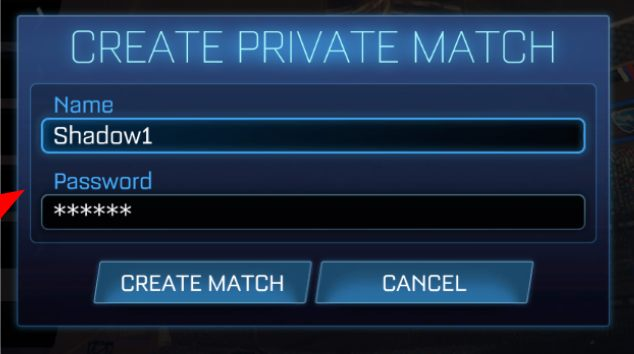
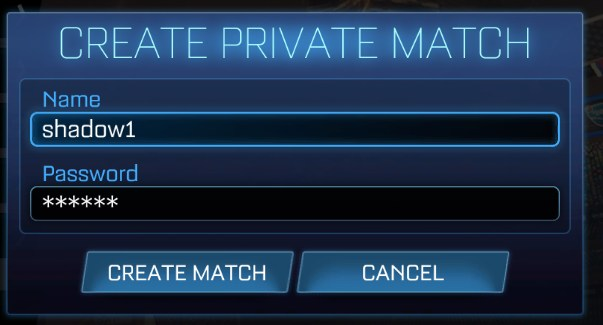
Match setup: new screenshots for match settings, mutators and create dialog

diff --git a/rocket-league/match-setup.html b/rocket-league/match-setup.html
@@ -190,7 +190,7 @@
                         <tr><th scope="row">Match Admin</th><td>Disabled</td></tr>
                     </tbody>
                 </table>
-                <figure class="shot"><img src="match-setup/match-settings.jpg" alt="Private Match settings screen showing Soccar, DFH Stadium, 3v3, No Bots, Recommended, Name/Password and Match Admin Disabled" width="760" height="760" loading="lazy"></figure>
+                <figure class="shot"><img src="match-setup/match-settings.jpg" alt="Private Match settings screen showing Soccar, DFH Stadium, 3v3, No Bots, Recommended, Name/Password and Match Admin Disabled, with the Team Settings button highlighted" width="723" height="756" loading="lazy"></figure>
             </div>
             <figure class="shot mt-4 md:w-1/2"><img src="match-setup/team-settings.jpg" alt="Team Settings screen with Team 1 named Shadow Hills and Team 2 named Millen, each with a primary and accent color" width="828" height="664" loading="lazy"><figcaption>Team Settings: school names in, colors optional</figcaption></figure>
         </li>
@@ -205,7 +205,7 @@
                     <p class="text-gray-300 mt-2">Open <strong class="text-white">Mutator Settings</strong> and press <strong class="text-white">Restore Defaults</strong>, so nothing left over from a previous game carries into the match.</p>
                 </div>
             </div>
-            <figure class="shot max-w-xs"><img src="match-setup/mutators.jpg" alt="Mutator settings screen with the Restore Defaults button highlighted at the bottom" width="572" height="1000" loading="lazy"></figure>
+            <figure class="shot max-w-xs"><img src="match-setup/mutators.jpg" alt="Mutator settings screen with the Restore Defaults button highlighted at the bottom" width="520" height="881" loading="lazy"></figure>
         </li>
 
         <!-- 5 -->
@@ -219,7 +219,7 @@
                     <p class="text-sm text-gray-400 mt-2">Need to find the other coach? Use the <a href="https://docs.google.com/spreadsheets/u/0/d/1MMFoaAT96JlsFzFY4W_C_YXEHuwR7VlkpvYTOf2Wjm0/edit" target="_blank" rel="noopener noreferrer" class="text-esports-blue-text hover:text-esports-yellow-text underline">PSD eSports Coaches contact list</a><span class="sr-only"> (opens in a new tab)</span>.</p>
                 </div>
             </div>
-            <figure class="shot max-w-md"><img src="match-setup/create-dialog.jpg" alt="Create Private Match dialog with a name and a hidden password filled in" width="634" height="354" loading="lazy"></figure>
+            <figure class="shot max-w-md"><img src="match-setup/create-dialog.jpg" alt="Create Private Match dialog with the name shadow1 and a hidden password filled in" width="603" height="325" loading="lazy"></figure>
         </li>
 
         <!-- 6 -->
